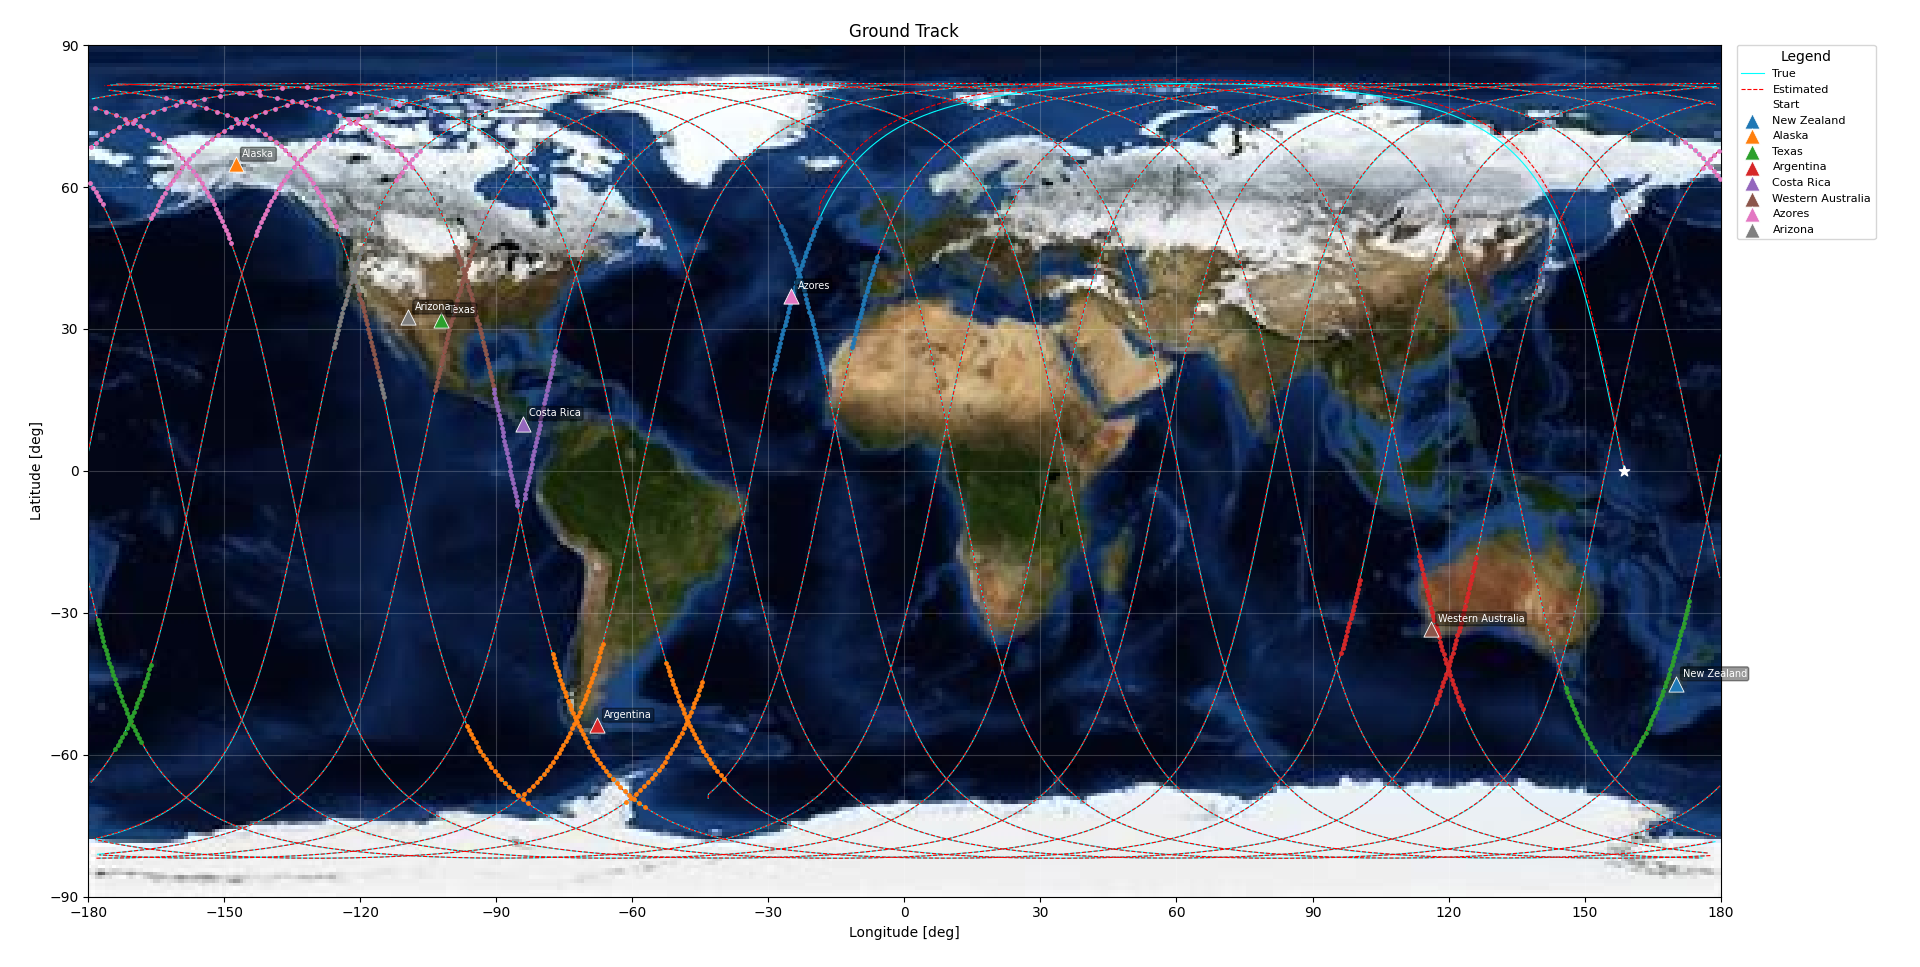
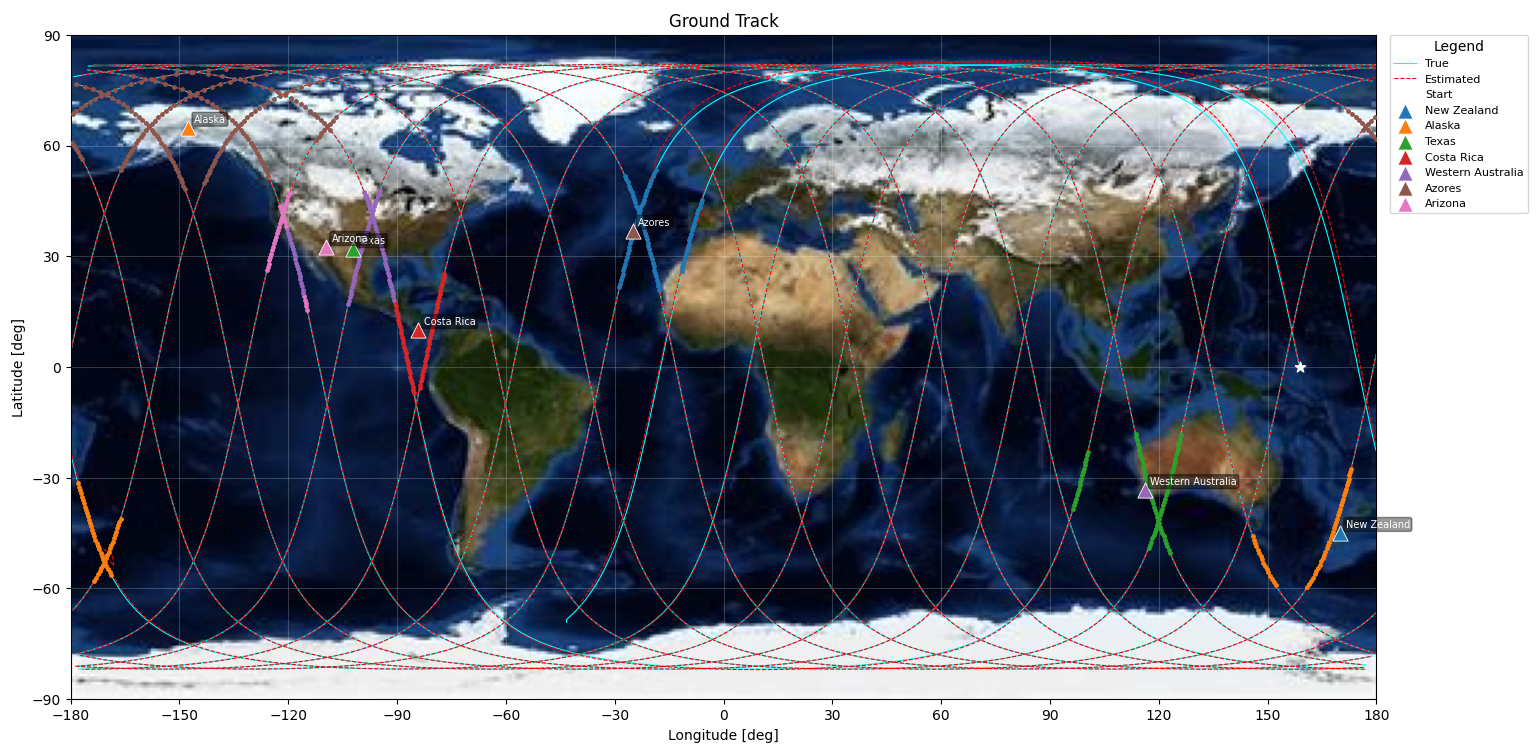
new gs locations

diff --git a/config.py b/config.py
@@ -53,8 +53,8 @@ beta_max = np.deg2rad(80)  # max viewing angle
 
 # --- New Zealand (Kiwi Space Radar, Central Otago, South Island) ---
 # Exact coords from radartutorial.eu: 45°02'19.9"S, 170°05'44.9"E
-lat_nz = np.deg2rad(-45.039)
-lon_nz = np.deg2rad(170.096)
+lat_nz = np.deg2rad(-45.0)
+lon_nz = np.deg2rad(170.0)
 r_ecf_nz = get_ground_station_location(R_EARTH, lat_nz, lon_nz)
 
 # --- Alaska (Poker Flat Research Range, Fairbanks area) ---
@@ -67,11 +67,6 @@ lat_tx = np.deg2rad(31.9)
 lon_tx = np.deg2rad(-102.2)
 r_ecf_tx = get_ground_station_location(R_EARTH, lat_tx, lon_tx)
 
-# --- Argentina (Tierra del Fuego / Patagonia region) ---
-lat_ag = np.deg2rad(-53.8)
-lon_ag = np.deg2rad(-67.7)
-r_ecf_ag = get_ground_station_location(R_EARTH, lat_ag, lon_ag)
-
 # --- Costa Rica Space Radar (Guanacaste, commissioned Apr 2021) ---
 lat_cr = np.deg2rad(10.0)
 lon_cr = np.deg2rad(-84.2)
@@ -83,8 +78,8 @@ lon_wa = np.deg2rad(116.1)
 r_ecf_wa = get_ground_station_location(R_EARTH, lat_wa, lon_wa)
 
 # --- Azores Space Radar (Santa Maria Island, Portugal, commissioned Jun 2023) ---
-lat_az = np.deg2rad(36.97)
-lon_az = np.deg2rad(-25.07)
+lat_az = np.deg2rad(36.9)
+lon_az = np.deg2rad(-25.0)
 r_ecf_az = get_ground_station_location(R_EARTH, lat_az, lon_az)
 
 # --- Arizona (eastern AZ, ~1.5 hrs east of Tucson, operational Dec 2024) ---
@@ -109,11 +104,6 @@ ground_stations = {
         "r_ecf": r_ecf_tx,
         "lat": lat_tx,
         "lon": lon_tx,
-    },
-    "Argentina": {
-        "r_ecf": r_ecf_ag,
-        "lat": lat_ag,
-        "lon": lon_ag,
     },
     "Costa Rica": {
         "r_ecf": r_ecf_cr,
